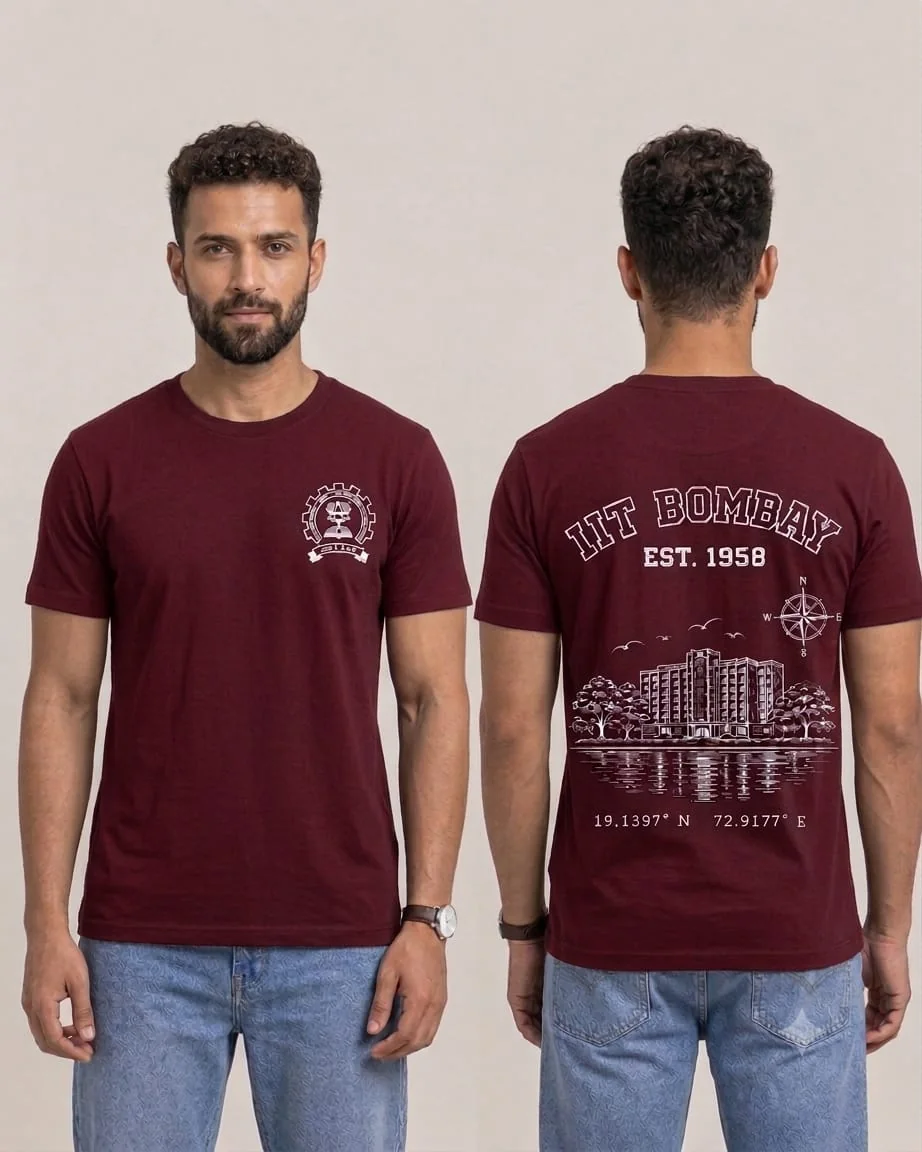
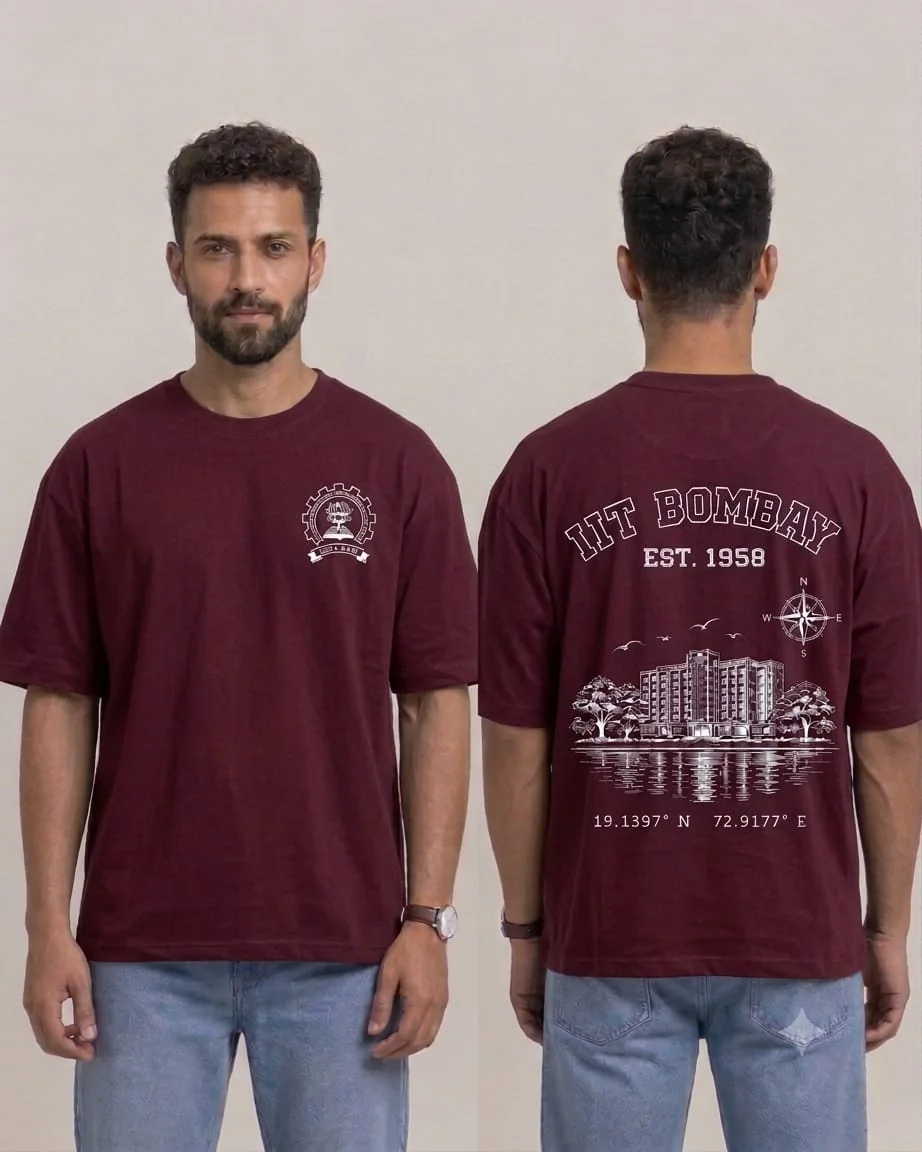
Size charts per kind, zip hoodie photos with name, 3D loading poster, IITB-Merch
- Hoodie, oversized and regular T-shirt size charts, editable in Admin > Settings
- Zip hoodie: real zip photos, ₹99 name with live preview
- Regular T-shirt and Campus Oversized T-shirt: new on-model photos
- Home hero: loads on a render of the 3D scene's first frame, then the live scene takes over without a visible swap
- Brand renamed to IITB-Merch (logo dash in accent colour)

Claude-Session: https://claude.ai/code/session_01QtSxZm2SGnARjtwm16QoiH

diff --git a/src/components/home/HeroStage.tsx b/src/components/home/HeroStage.tsx
@@ -6,7 +6,6 @@ import Link from "next/link";
 import { useEffect, useState } from "react";
 import { preload } from "react-dom";
 import { useSettings } from "@/components/SettingsProvider";
-import { ColorwayImage } from "@/components/shop/ColorwayImage";
 import { HOODIE_URL } from "@/lib/model";
 import { normalizeName } from "@/lib/schemas";
 import { prefersReducedMotion, webglAvailable } from "@/lib/webgl";
@@ -16,9 +15,12 @@ import { useHome } from "./store";
 // three.js is fetched only here, only in the browser, and only when 3D is allowed.
 const HeroScene = dynamic(() => import("./HeroScene"), { ssr: false });
 
-type Mode = "deciding" | "3d" | "photo";
+// The scene's first frame, rendered by scripts/capture-hero-poster.mjs. The 3D fades in over it, so nothing seems to swap.
+const POSTER = `/products/hero-poster.webp?v=${process.env.NEXT_PUBLIC_STILLS_VERSION ?? "dev"}`;
 
-// The home page's 3D hoodie (drag it; scrolling turns it round to the back). The photo is used only when 3D can't run.
+type Mode = "deciding" | "3d" | "static";
+
+// The home page's 3D hoodie: drag it, and scrolling turns it round to the back.
 export function HeroStage({ hero }: { hero: HomePhoto }) {
   preload(HOODIE_URL, { as: "fetch", crossOrigin: "anonymous" }); // model download starts with the page, not after the JS
   const s = useSettings();
@@ -29,40 +31,43 @@ export function HeroStage({ hero }: { hero: HomePhoto }) {
 
   useEffect(() => {
     const query = matchMedia("(prefers-reduced-motion: reduce)");
-    const decide = () => setMode(!prefersReducedMotion() && webglAvailable() ? "3d" : "photo");
+    const decide = () => setMode(!prefersReducedMotion() && webglAvailable() ? "3d" : "static");
     decide();
     query.addEventListener("change", decide);
     return () => query.removeEventListener("change", decide);
   }, []);
 
   const href = hero ? `/shop/${hero.slug}` : colorway ? `/shop/${colorway.slug}` : "/shop";
-  const loading = mode === "deciding" || (mode === "3d" && !ready);
+  const live = mode === "3d" && ready;
   return (
     // No panel colour: the hoodie and its glow sit straight on the page with no box edge.
-    <div className={`relative aspect-[4/5] [container-type:inline-size] md:aspect-square ${mode === "photo" ? "overflow-hidden bg-bg-2" : ""}`}>
+    <div className="relative aspect-[4/5] [container-type:inline-size] md:aspect-square">
       <div aria-hidden className="pointer-events-none absolute -inset-[10%] bg-[radial-gradient(closest-side,rgba(255,59,31,0.22),transparent)]" />
 
-      {mode === "photo" &&
-        (hero ? (
-          <Image src={hero.src} alt={hero.alt} fill priority sizes="(min-width: 768px) 45vw, 100vw" className="object-cover" />
-        ) : colorway ? (
-          <ColorwayImage slug={colorway.slug} colorway={colorway.name} body={colorway.body} stitch={colorway.stitch} alt={`${colorway.name} hoodie`} priority sizes="(min-width: 768px) 45vw, 100vw" className="object-cover object-top" />
-        ) : null)}
+      <Image
+        src={POSTER}
+        alt="The IIT Bombay hoodie"
+        fill
+        priority
+        sizes="(min-width: 768px) 45vw, 100vw"
+        className={`object-cover transition-opacity duration-700 ${live ? "opacity-0" : "opacity-100"}`}
+      />
 
       {mode === "3d" && colorway && (
-        <div className={`absolute inset-0 transition-opacity duration-1000 ${ready ? "opacity-100" : "opacity-0"}`}>
+        <div className={`absolute inset-0 transition-opacity duration-700 ${ready ? "opacity-100" : "opacity-0"}`}>
           <HeroScene body={colorway.body} stitch={colorway.stitch} name={normalizeName(name, s)} onReady={() => setReady(true)} />
         </div>
       )}
 
-      {loading && (
-        <p role="status" className="label absolute inset-0 grid place-items-center">
-          <span className="animate-pulse">[ Loading the hoodie ]</span>
-        </p>
-      )}
-      {mode === "3d" && ready && (
-        <p className="label pointer-events-none absolute bottom-3 left-3">
-          Drag to turn<span className="hidden sm:inline"> · scroll to see the back</span>
+      {mode !== "static" && (
+        <p role="status" className="label pointer-events-none absolute bottom-3 left-3">
+          {live ? (
+            <>
+              Drag to turn<span className="hidden sm:inline"> · scroll to see the back</span>
+            </>
+          ) : (
+            <span className="animate-pulse">Loading 3D…</span>
+          )}
         </p>
       )}
       <Link href={href} className="label absolute bottom-3 right-3 border border-line bg-bg/70 px-2.5 py-1.5 backdrop-blur-sm hover:text-fg">

diff --git a/src/lib/settings-schema.ts b/src/lib/settings-schema.ts
@@ -1,6 +1,6 @@
 // Validation + merging for runtime settings. Client-safe (no server imports).
 import { z } from "zod";
-import { defaultSettings, type Settings } from "@/config/site";
+import { defaultSettings, type Settings, type SizeChartKey } from "@/config/site";
 
 const UPI_RE = /^[a-zA-Z0-9.\-_]{2,64}@[a-zA-Z][a-zA-Z0-9]{1,31}$/;
 const phoneDigits = z.string().trim().regex(/^\d{10,15}$/, "Digits only, country code first (e.g. 919876543210)");
@@ -25,7 +25,7 @@ export const settingsSchema = z.object({
   nameMaxLength: z.number().int("Whole number").min(1, "At least 1").max(30, "At most 30"),
   nameUppercase: z.boolean(),
   maxPendingOrdersPerEmail: z.number().int("Whole number").min(1, "At least 1").max(20, "At most 20"),
-  sizeCharts: z.object({ hoodie: chartSchema, tee: chartSchema }),
+  sizeCharts: z.object({ hoodie: chartSchema, oversized: chartSchema, regular: chartSchema }),
   offers: z.object({
     comboPercent: z.number().int("Whole number").min(0, "0 or more").max(50, "At most 50"),
     bulkAbove: z.number().int("Whole rupees").min(0, "0 or more").max(100000, "Too high"),
@@ -66,6 +66,10 @@ export function setupChecklist(s: Settings): ChecklistItem[] {
     { key: "phone", label: "Phone & WhatsApp", done: s.phone !== defaultSettings.phone && s.whatsapp !== defaultSettings.whatsapp, hint: "Where customers send payment screenshots." },
     { key: "pickup", label: "Pickup room & hours", done: !blank(s.pickupRoom) && !blank(s.pickupHours), hint: "Shown on the pay page and policies." },
     { key: "sizes", label: "Hoodie size chart", done: Object.values(s.sizeCharts.hoodie.rows).some((r) => r.some((c) => !blank(c))), hint: "Measurements for the size-chart popup." },
-    { key: "tee-sizes", label: "T-shirt size chart", done: Object.values(s.sizeCharts.tee.rows).some((r) => r.some((c) => !blank(c))), hint: "Measurements for the T-shirt size-chart popup." },
+    { key: "tee-sizes", label: "Regular T-shirt size chart", done: Object.values(s.sizeCharts.regular.rows).some((r) => r.some((c) => !blank(c))), hint: "Measurements for the regular T-shirt size-chart popup." },
   ];
 }
+
+// Hoodies use the hoodie chart; T-shirts with "oversized" in the name use the oversized one, other T-shirts the regular one.
+export const sizeChartFor = (p: { type: "hoodie" | "tee"; name: string; slug: string }): SizeChartKey =>
+  p.type === "hoodie" ? "hoodie" : /oversized/i.test(`${p.name} ${p.slug}`) ? "oversized" : "regular";

diff --git a/tests/schemas.test.ts b/tests/schemas.test.ts
@@ -3,7 +3,7 @@ import { test } from "node:test";
 import { defaultSettings } from "@/config/site";
 import { safeNext } from "@/lib/auth/next";
 import { changePasswordSchema, logInSchema, makeCheckoutSchema, makeNameSchema, normalizeOrderCode, orderCodeSchema, phoneSchema, profileSchema, signUpSchema, utrSchema } from "@/lib/schemas";
-import { mergeSettings, setupChecklist, settingsSchema } from "@/lib/settings-schema";
+import { mergeSettings, setupChecklist, settingsSchema, sizeChartFor } from "@/lib/settings-schema";
 
 const rules = { nameMaxLength: 12, nameUppercase: true };
 
@@ -78,7 +78,15 @@ test("setup checklist flags placeholders until real values are saved", () => {
   const todo = setupChecklist(defaultSettings).filter((i) => !i.done).map((i) => i.key);
   assert.deepEqual(todo, ["upi", "payee", "phone", "pickup", "tee-sizes"], "the hoodie chart ships filled in");
   const done = setupChecklist(
-    mergeSettings({ upiId: "aryan@oksbi", payeeName: "Aryan K", phone: "919876543210", whatsapp: "919876543210", pickupRoom: "Room 12", pickupHours: "6-9pm", sizeCharts: { hoodie: { unit: "cm", columns: ["Chest"], rows: { M: ["54"] } }, tee: { unit: "cm", columns: ["Chest"], rows: { M: ["50"] } } } }),
+    mergeSettings({ upiId: "aryan@oksbi", payeeName: "Aryan K", phone: "919876543210", whatsapp: "919876543210", pickupRoom: "Room 12", pickupHours: "6-9pm", sizeCharts: { hoodie: { unit: "cm", columns: ["Chest"], rows: { M: ["54"] } }, oversized: { unit: "cm", columns: ["Chest"], rows: { M: ["52"] } }, regular: { unit: "cm", columns: ["Chest"], rows: { M: ["50"] } } } }),
   );
   assert.ok(done.every((i) => i.done), JSON.stringify(done.filter((i) => !i.done)));
+});
+
+test("each product gets the right size chart", () => {
+  assert.equal(sizeChartFor({ type: "hoodie", name: "IIT Bombay Zip Hoodie", slug: "iit-bombay-zip-hoodie" }), "hoodie");
+  assert.equal(sizeChartFor({ type: "tee", name: "Oversized T-shirt", slug: "oversized-tee" }), "oversized");
+  assert.equal(sizeChartFor({ type: "tee", name: "Campus Oversized T-shirt", slug: "campus-oversized-tee" }), "oversized");
+  assert.equal(sizeChartFor({ type: "tee", name: "Regular T-shirt", slug: "regular-tee" }), "regular");
+  assert.deepEqual(defaultSettings.sizeCharts.oversized.rows.XXL, ["48"]);
 });

diff --git a/src/actions/admin/settings.ts b/src/actions/admin/settings.ts
@@ -27,9 +27,9 @@ export async function saveSettings(_prev: FormState, formData: FormData): Promis
     const values = Object.fromEntries(["brand", "upiId", "payeeName", "contactName", "phone", "whatsapp", "pickupLocation", "pickupRoom", "pickupHours", "refundWindowDays", "nameMaxLength", "maxPendingOrdersPerEmail", "promoTitle", "promoLimit", "promoItems", "promoNote", "offerCombo", "offerBulkAbove", "offerBulkPercent"].map((k) => [k, text(formData, k)]));
 
     values.promoEnabled = formData.get("promoEnabled") === "on" ? "on" : "";
-    const sizeCharts = { hoodie: json(text(formData, "sizeChartHoodie")), tee: json(text(formData, "sizeChartTee")) };
+    const sizeCharts = { hoodie: json(text(formData, "sizeChartHoodie")), oversized: json(text(formData, "sizeChartOversized")), regular: json(text(formData, "sizeChartRegular")) };
     const fabricSpecs = json(text(formData, "fabricSpecs"));
-    if (sizeCharts.hoodie === undefined || sizeCharts.tee === undefined || fabricSpecs === undefined) return { ok: false, message: "The size chart or fabric specs couldn't be read. Reload and try again.", values };
+    if (Object.values(sizeCharts).includes(undefined) || fabricSpecs === undefined) return { ok: false, message: "The size chart or fabric specs couldn't be read. Reload and try again.", values };
 
     const parsed = settingsSchema.safeParse({
       ...values,

diff --git a/src/components/admin/SettingsForm.tsx b/src/components/admin/SettingsForm.tsx
@@ -80,8 +80,12 @@ export function SettingsForm({ settings }: { settings: Settings }) {
         <SizeChartEditor name="sizeChartHoodie" initial={settings.sizeCharts.hoodie} error={f.error("sizeCharts")} />
       </Section>
 
-      <Section title="Size chart: T-shirts" hint="Shown on T-shirt pages. Leave a cell as — until the vendor confirms it.">
-        <SizeChartEditor name="sizeChartTee" initial={settings.sizeCharts.tee} error={f.error("sizeCharts")} />
+      <Section title="Size chart: oversized T-shirts" hint="Used by every T-shirt with &ldquo;Oversized&rdquo; in its name.">
+        <SizeChartEditor name="sizeChartOversized" initial={settings.sizeCharts.oversized} error={f.error("sizeCharts")} />
+      </Section>
+
+      <Section title="Size chart: regular T-shirts" hint="Used by all other T-shirts. Leave a cell as — until the vendor confirms it.">
+        <SizeChartEditor name="sizeChartRegular" initial={settings.sizeCharts.regular} error={f.error("sizeCharts")} />
       </Section>
 
       <Section title="Cart discounts" hint="Applied automatically at checkout. If an order qualifies for both, only the bigger one applies. Set a % to 0 to switch it off.">

diff --git a/src/components/home/HeroScene.tsx b/src/components/home/HeroScene.tsx
@@ -30,7 +30,7 @@ export default function HeroScene({ body, stitch, name, onReady }: Props) {
   const box = useRef<HTMLDivElement>(null);
   const active = useActive(box);
   const [weak] = useState(() => matchMedia("(pointer: coarse)").matches || innerWidth < 768);
-  const [spin, setSpin] = useState(true);
+  const [spin, setSpin] = useState(false); // still at first, so it matches the poster it fades in over
 
   // Idle spin resumes a few seconds after a drag.
   const idle = useRef<number>(0);
@@ -64,7 +64,12 @@ export default function HeroScene({ body, stitch, name, onReady }: Props) {
             </Center>
           </ScrollTurn>
           <ContactShadows position={[0, -0.42, 0]} opacity={0.55} scale={2.2} blur={2.6} far={1} />
-          <ReadyAfterCompile onReady={onReady} />
+          <ReadyAfterCompile
+            onReady={() => {
+              onReady();
+              idle.current = window.setTimeout(() => setSpin(true), 1600);
+            }}
+          />
         </Suspense>
         <OrbitControls
           makeDefault

diff --git a/src/components/layout/Nav.tsx b/src/components/layout/Nav.tsx
@@ -34,7 +34,9 @@ export function Nav({ account, strip }: { account: ReactNode; strip: ReactNode }
   const bumps = useCart((s) => s.bumps);
   const openDrawer = useCart((s) => s.openDrawer);
   const badge = useRef<HTMLSpanElement>(null);
-  const [left, right] = brand.split("—");
+  // The first dash in the brand (e.g. IITB-Merch) is drawn in the accent colour.
+  const dash = brand.match(/[—–-]/);
+  const [left, right] = dash ? [brand.slice(0, dash.index), brand.slice(dash.index! + 1)] : [brand, undefined];
 
   // Restart the CSS keyframe on every add so the badge bumps even for identical counts.
   useEffect(() => {
@@ -56,7 +58,7 @@ export function Nav({ account, strip }: { account: ReactNode; strip: ReactNode }
           {right !== undefined ? (
             <>
               {left}
-              <span className="text-accent">—</span>
+              <span className="text-accent">{dash?.[0]}</span>
               {right}
             </>
           ) : (

diff --git a/tests/motion.test.ts b/tests/motion.test.ts
@@ -42,11 +42,11 @@ test("the admin panel and API never get the wipe", () => {
 });
 
 test("the wipe is labelled with the page being opened", () => {
-  assert.equal(wipeLabel("/shop/ash", "MERCH—IITB"), "Shop");
-  assert.equal(wipeLabel("/orders", "MERCH—IITB"), "My orders");
-  assert.equal(wipeLabel("/order/HD-7K4Q/pay", "MERCH—IITB"), "Payment");
-  assert.equal(wipeLabel("/", "MERCH—IITB"), "MERCH—IITB");
-  assert.equal(wipeLabel("/something-new", "MERCH—IITB"), "MERCH—IITB");
+  assert.equal(wipeLabel("/shop/ash", "IITB-Merch"), "Shop");
+  assert.equal(wipeLabel("/orders", "IITB-Merch"), "My orders");
+  assert.equal(wipeLabel("/order/HD-7K4Q/pay", "IITB-Merch"), "Payment");
+  assert.equal(wipeLabel("/", "IITB-Merch"), "IITB-Merch");
+  assert.equal(wipeLabel("/something-new", "IITB-Merch"), "IITB-Merch");
 });
 
 test("the strip reads like the spec, and says so when preorders are closed", () => {

diff --git a/src/components/shop/ProductConfigurator.tsx b/src/components/shop/ProductConfigurator.tsx
@@ -20,6 +20,7 @@ import { Price } from "@/components/shop/Price";
 import { fmtDate, inr } from "@/lib/format";
 import { buzz } from "@/lib/haptics";
 import { normalizeName } from "@/lib/schemas";
+import { sizeChartFor } from "@/lib/settings-schema";
 import type { PromoView } from "@/lib/promo";
 import type { Product } from "@/lib/types";
 import { FreebiesBanner } from "@/components/promo/FreebiesBanner";
@@ -180,7 +181,7 @@ export function ProductConfigurator({ product, batch, promo }: { product: Produc
 
         <ChipGroup
           legend="Size"
-          hint={<SizeChart sizes={product.sizes} kind={product.type} />}
+          hint={<SizeChart sizes={product.sizes} kind={sizeChartFor(product)} />}
           options={product.sizes.map((s) => ({ value: s, label: s }))}
           value={size}
           onChange={(v) => {

diff --git a/src/config/site.ts b/src/config/site.ts
@@ -4,6 +4,7 @@
 // SQL seed, the demo store and the UI share one source.
 import defaults from "./settings.defaults.json";
 
+export type SizeChartKey = "hoodie" | "oversized" | "regular";
 export type SizeChart = { unit: string; columns: string[]; rows: Record<string, string[]> };
 export type FabricSpec = { label: string; value: string };
 export type Offers = { comboPercent: number; bulkAbove: number; bulkPercent: number };
@@ -23,7 +24,7 @@ export type Settings = {
   nameMaxLength: number;
   nameUppercase: boolean;
   maxPendingOrdersPerEmail: number;
-  sizeCharts: { hoodie: SizeChart; tee: SizeChart }; // the popup picks one by product type
+  sizeCharts: Record<SizeChartKey, SizeChart>; // the popup picks one per product, see sizeChartFor
   fabricSpecs: FabricSpec[];
   promo: Promo;
   offers: Offers;

diff --git a/tests/sql.test.ts b/tests/sql.test.ts
@@ -45,7 +45,7 @@ test("migrations and seed re-run cleanly (idempotent)", async () => {
   await db.exec(read("seed.sql"));
   assert.deepEqual((await db.query("select count(*)::int n from products")).rows[0], { n: 6 });
   assert.deepEqual((await db.query("select count(*)::int n from settings")).rows[0], { n: 1 });
-  assert.deepEqual((await db.query("select value->>'brand' b from settings")).rows[0], { b: "MERCH—IITB" });
+  assert.deepEqual((await db.query("select value->>'brand' b from settings")).rows[0], { b: "IITB-Merch" });
 });
 
 test("profiles: users read, insert and update only their own row", async () => {

diff --git a/src/lib/name-spots.ts b/src/lib/name-spots.ts
@@ -4,8 +4,8 @@ export type NameSpot = { x: number; y: number; size: number; maxWidth: number };
 
 const SPOTS: Record<string, NameSpot> = {
   "iit-bombay-hoodie": { x: 50.5, y: 83, size: 9, maxWidth: 62 },
+  "iit-bombay-zip-hoodie": { x: 50.5, y: 83, size: 9, maxWidth: 62 }, // same print and back crop as the pullover
   "oversized-tee": { x: 75.4, y: 50, size: 3.8, maxWidth: 25 },
-  "regular-tee": { x: 75.4, y: 50, size: 3.8, maxWidth: 25 },
 };
 
 export const nameSpot = (slug: string): NameSpot | null => SPOTS[slug] ?? null;
